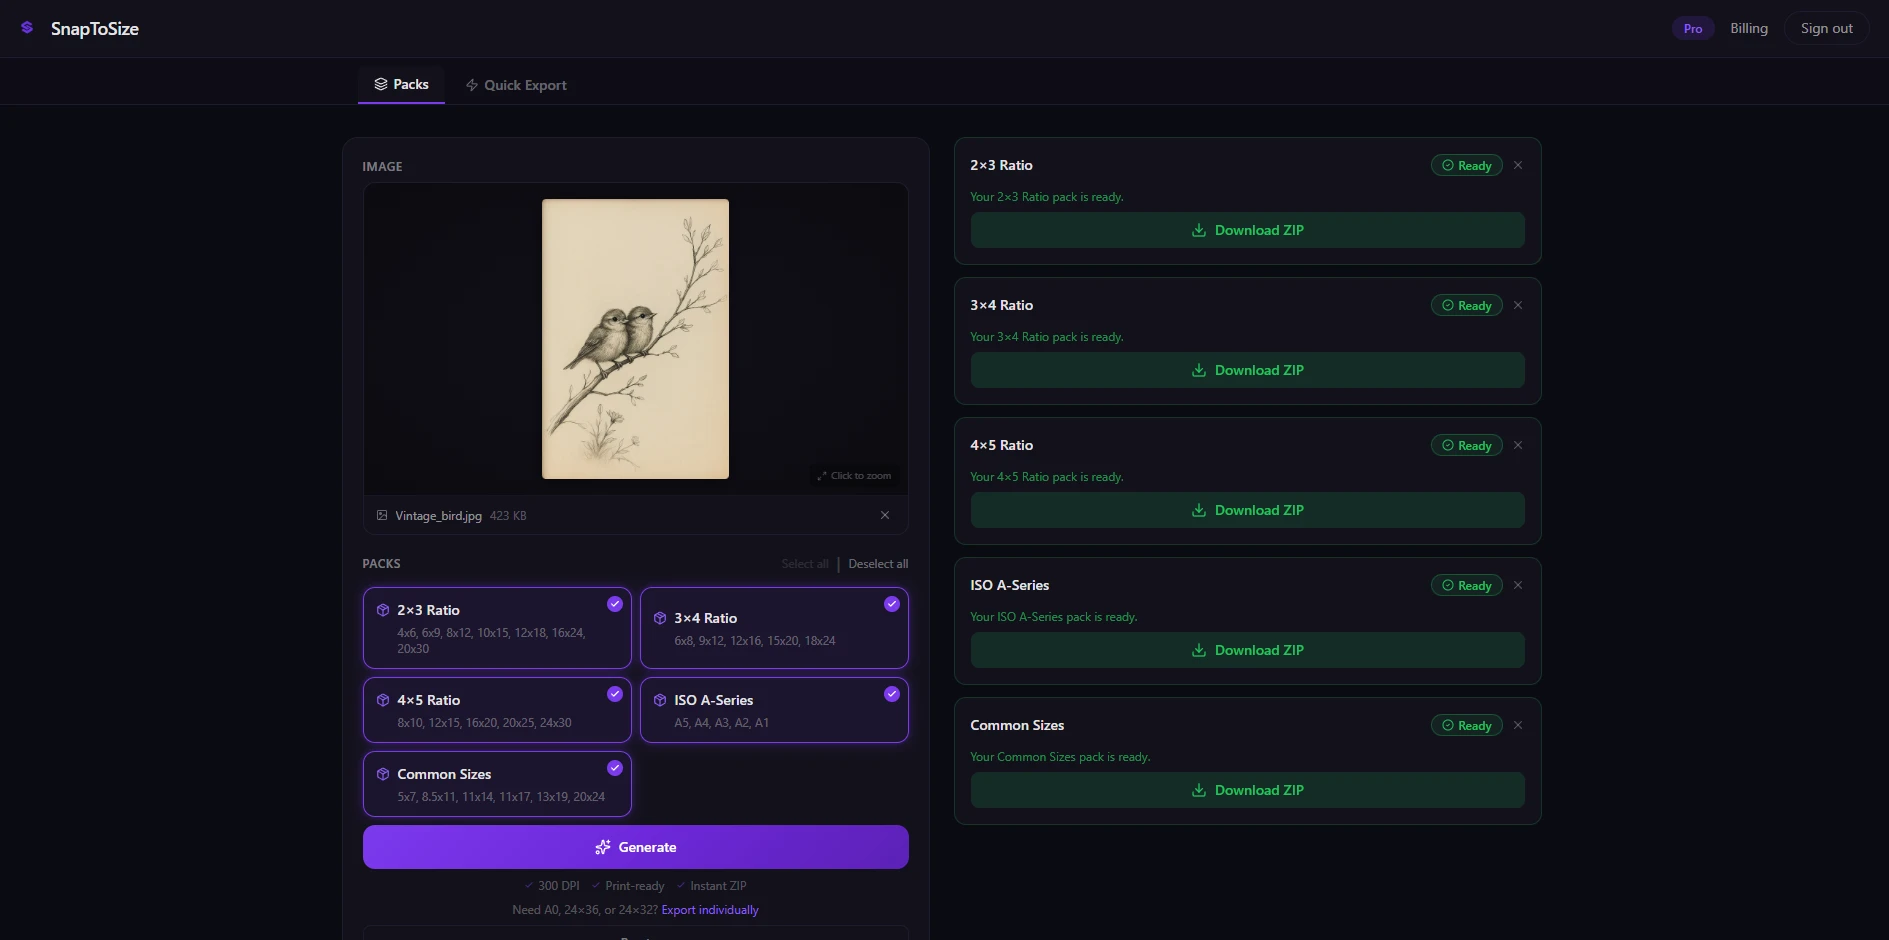
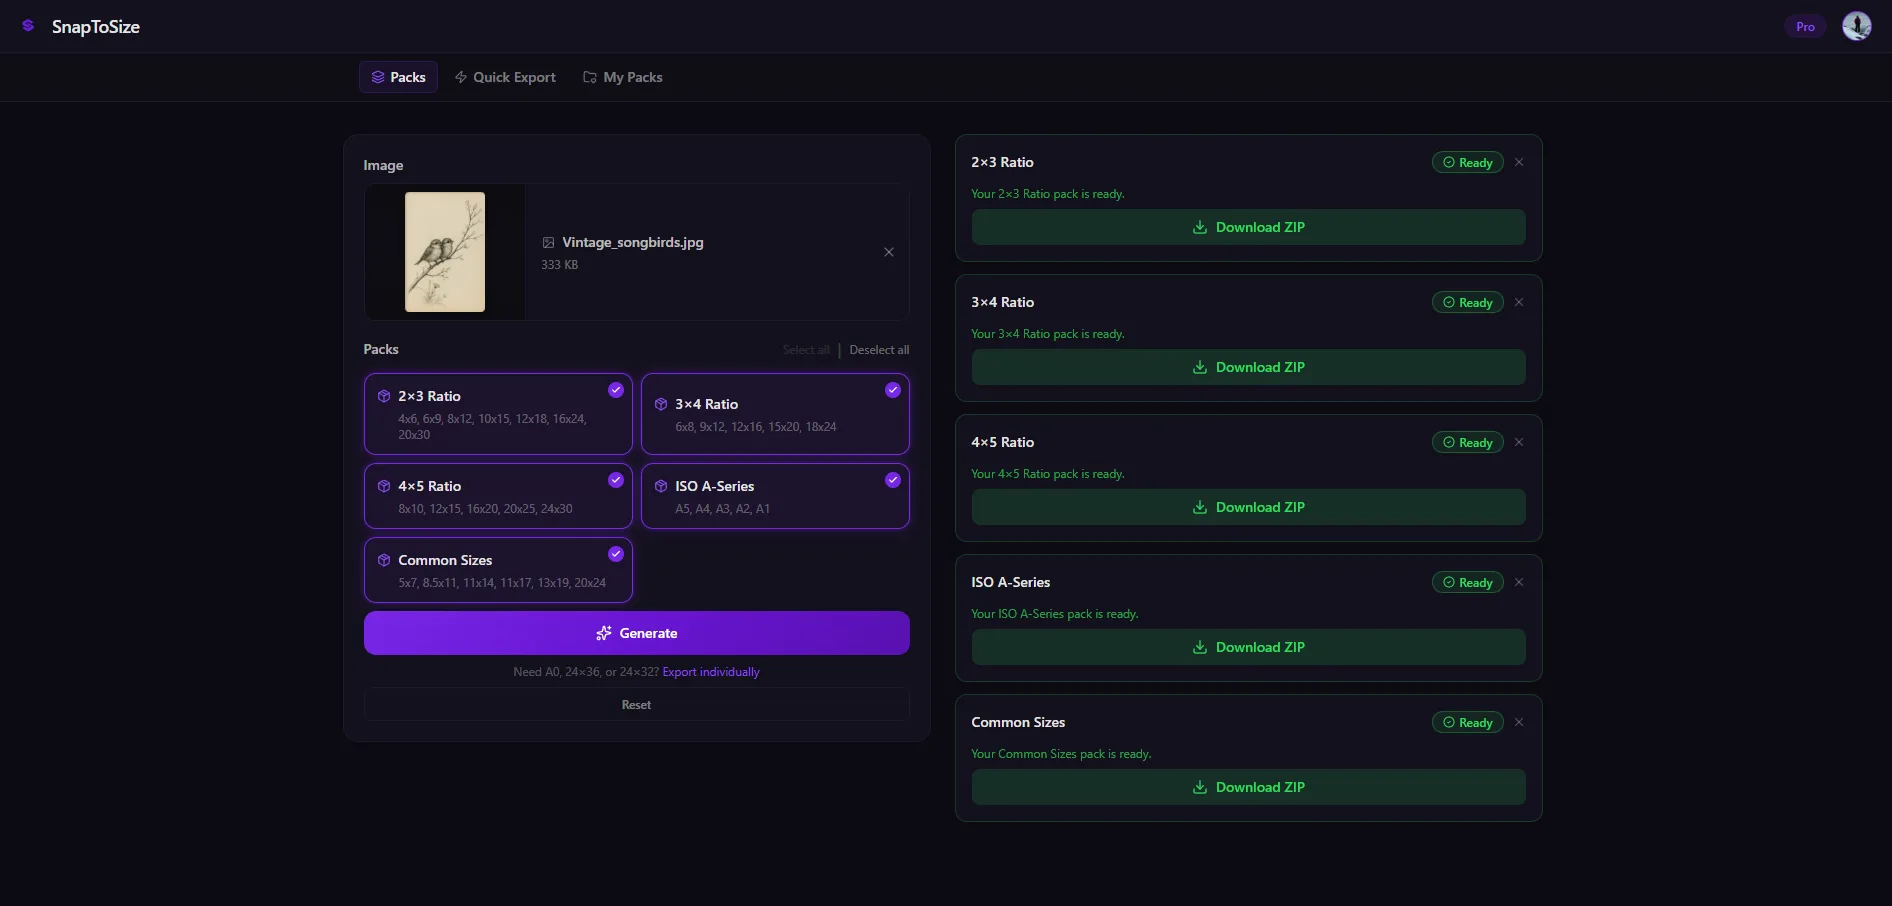
marketing: replace homepage demo video with v2 (overlay captions, 1.3x, faststart)
New use-case walkthrough with burned-in overlay captions (Geist Bold, teal
payoff), 1.3x pace, web-optimized faststart. Hero + modal container ratio
matched to the video (1892/906) so it fills proportionally with no black bars.

diff --git a/app-next/components/sections/HeroSection.tsx b/app-next/components/sections/HeroSection.tsx
@@ -113,10 +113,10 @@ export function HeroSection() {
               {/* Video Thumbnail — primary visual hook */}
               <button
                 onClick={() => setModalOpen(true)}
-                className="relative max-w-2xl mx-auto rounded-xl overflow-hidden border border-border block w-full group cursor-pointer mb-5 aspect-[16/8]"
+                className="relative max-w-2xl mx-auto rounded-xl overflow-hidden border border-border block w-full group cursor-pointer mb-5 aspect-[1892/906]"
               >
                 <video
-                  src="/assets/snaptosize_video_showcase.mp4"
+                  src="/assets/snaptosize-use-case.mp4"
                   poster="/assets/video_display_image.webp"
                   muted
                   playsInline
@@ -131,7 +131,7 @@ export function HeroSection() {
                   </div>
                 </div>
                 <span className="absolute bottom-3 left-1/2 -translate-x-1/2 text-xs text-white/70 bg-black/40 backdrop-blur-sm px-3 py-1 rounded-full">
-                  Watch demo · 47s
+                  Watch demo · 49s
                 </span>
               </button>
 
@@ -152,7 +152,7 @@ export function HeroSection() {
       <VideoModal
         isOpen={modalOpen}
         onClose={() => setModalOpen(false)}
-        videoSrc="/assets/snaptosize_video_showcase.mp4"
+        videoSrc="/assets/snaptosize-use-case.mp4"
       />
     </section>
   );

diff --git a/app-next/components/VideoModal.tsx b/app-next/components/VideoModal.tsx
@@ -57,7 +57,7 @@ export function VideoModal({ isOpen, onClose, videoSrc }: VideoModalProps) {
         >
           ✕
         </button>
-        <div className="relative overflow-hidden aspect-[16/8] rounded-xl border border-border">
+        <div className="relative overflow-hidden aspect-[1892/906] rounded-xl border border-border">
           <video
             ref={videoRef}
             src={videoSrc}